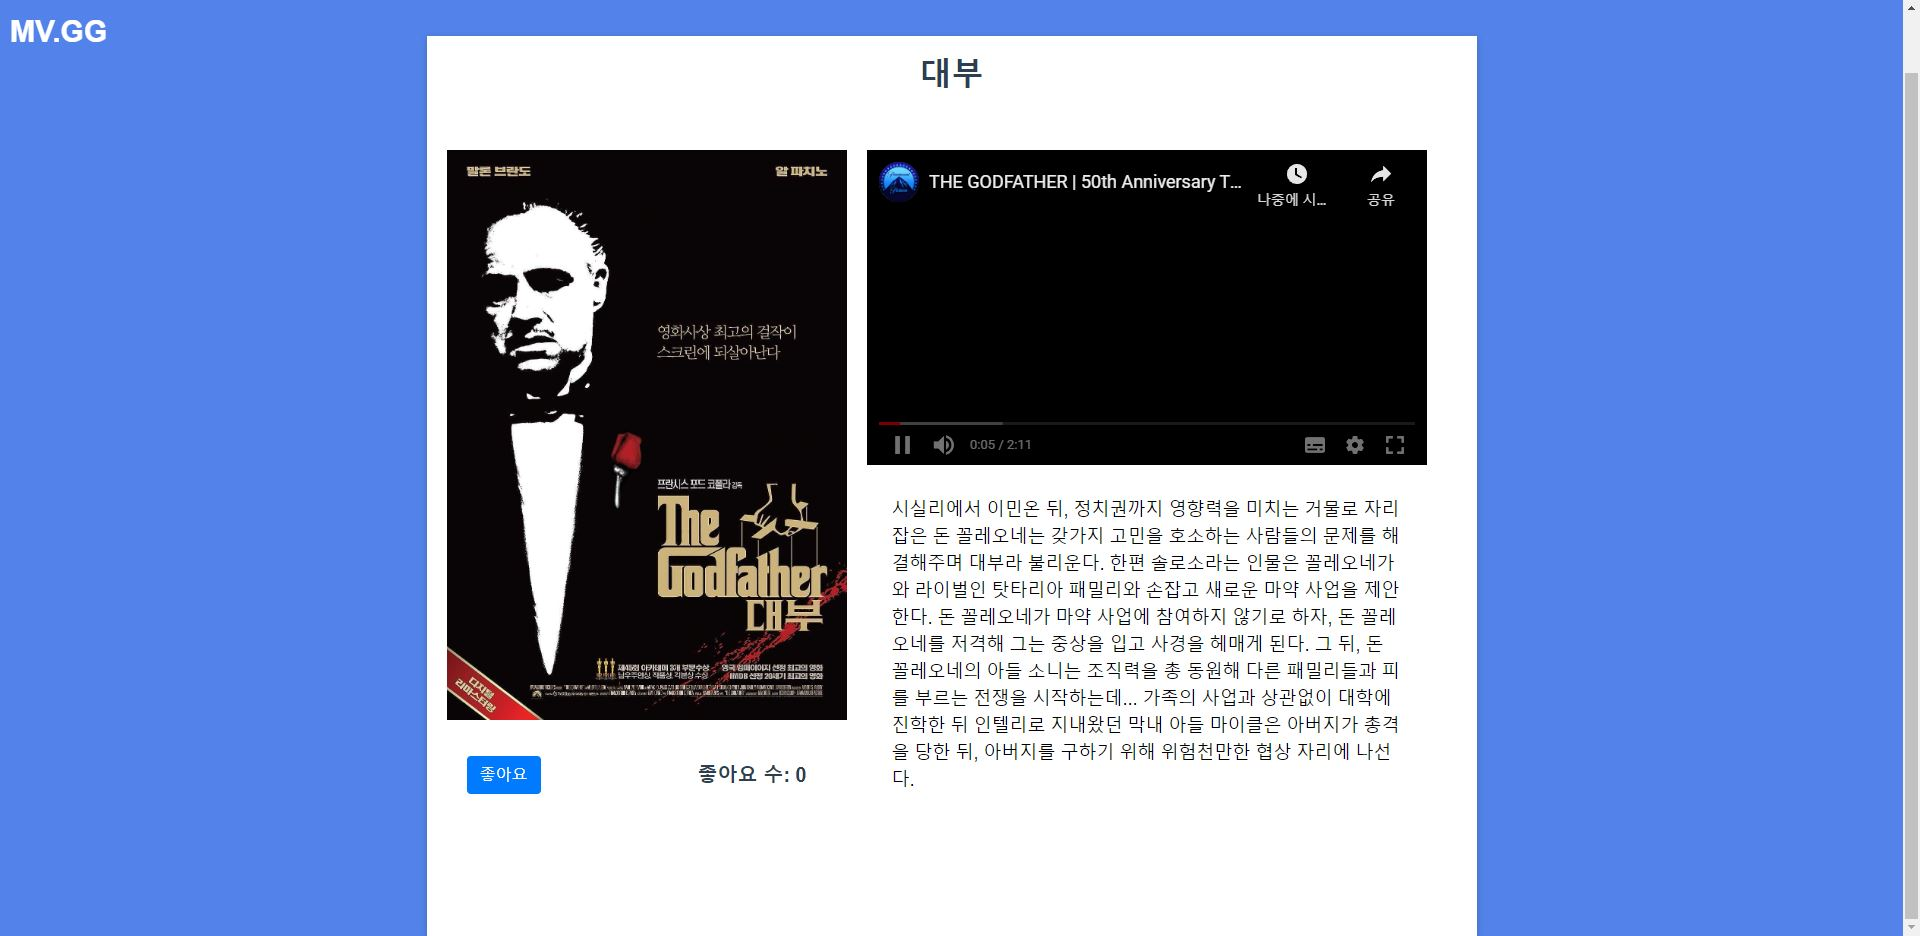
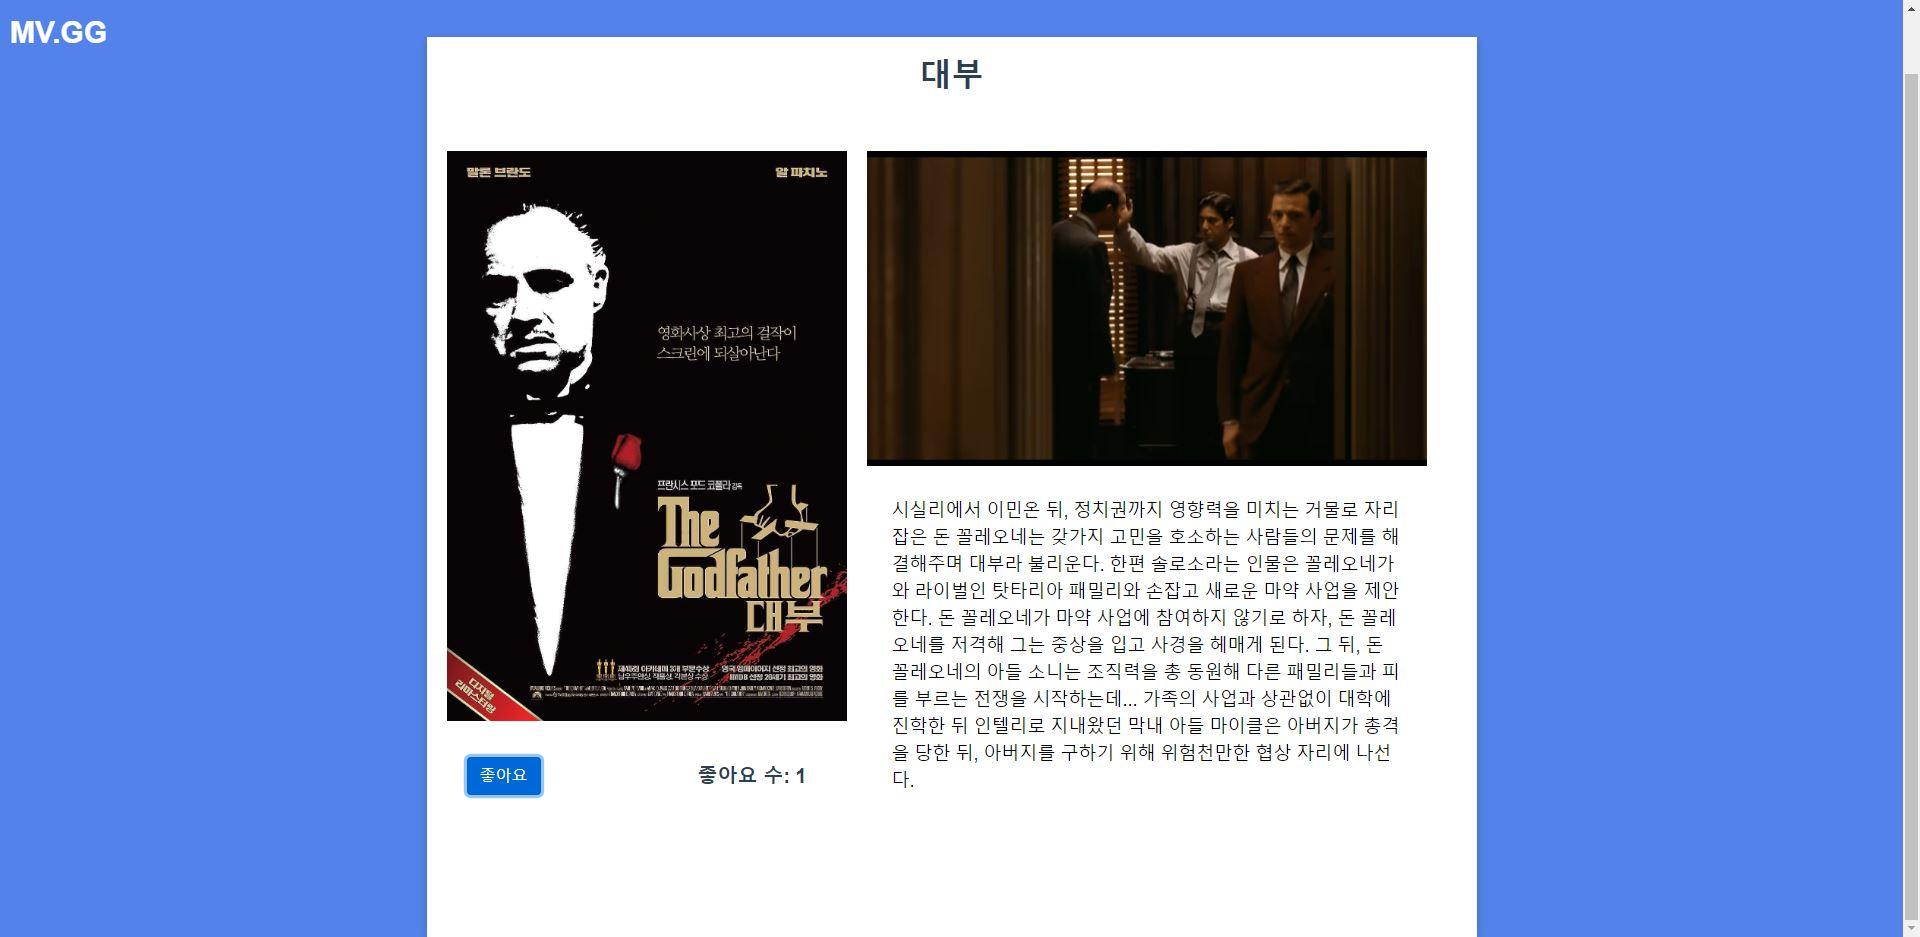
리드미 수정중

diff --git a/README.md b/README.md
@@ -126,7 +126,7 @@
 └─ TMDB_DATA_JSON.py
 ```
 
-### 1. 메인 페이지
+### 1. MOVIE
 
 - **홈 페이지**
   ![홈](README.assets/home.JPG)
@@ -144,6 +144,7 @@
 - 카드 디테일
 
   - 카드 형태로 전체 영화 목록을 제공
+  - 카드 클릭시 영화 상세 페이지로 이동
   - 한 페이지에 3개씩 제공
   - Next 버튼을 눌러서 다음 목록 조회
   - 마지막 데이터에 도달시 Next 버튼 제거
@@ -151,10 +152,45 @@
     <br>
 
 - **추천 랭킹 페이지**
+  ![랭킹](README.assets/ranking.JPG)
+
+  - 평점순위에 기반한 영화 추천
+  - 제목 클릭시 영화 상세 페이지로 이동
+
+    <br>
+
+  ![장르](README.assets/genre.JPG)
+
+  - 특정 장르 선택시 필터링 기능 제공
+
+    <br>
+
+- **영화 상세 페이지**
+  ![디테일](README.assets/detail.JPG)
+  - 영화의 자세한 데이터 제공
+  - 예고편 재생
+  - 좋아요 버튼 클릭시 프로필 창에서 확인 가능
+  - 좋아하는 유저수 표시
+
+### 2. COMMUNITY
+
+- **게시판 페이지**
+  ![커뮤](README.assets/commu.JPG)
+
+  ![노커뮤](README.assets/nocommu.JPG) - 게시글 작성 가능 - 인증된 유저만 작성 가능 - 제목 누를시 상세 게시글 페이지로 이동 - 작성자 누를시 해당 유저의 프로필 페이지로 이동
+
+- **게시글**
+  ![게시글](README.assets/comudetail.JPG)
+
+  - 작성자와 작성일 확인 가능
+  - 상세 게시글 확인 가능
+  - 수정, 삭제 가능
+  - 댓글 작성 가능
 
 ### 3.
 
-### 4.
+- **프로필 페이지**
+  ![프로필](README.assets/profile.JPG)
 
 ### 5.
 
